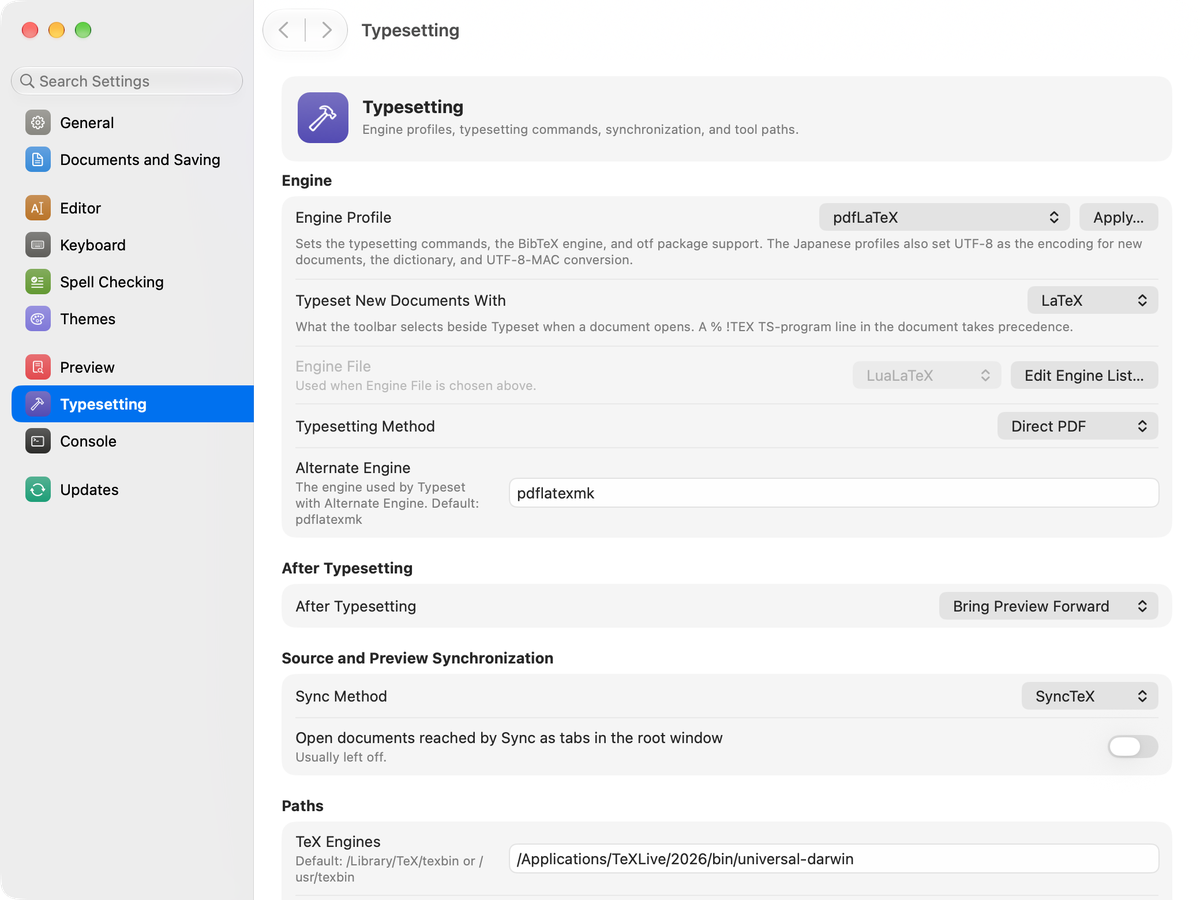
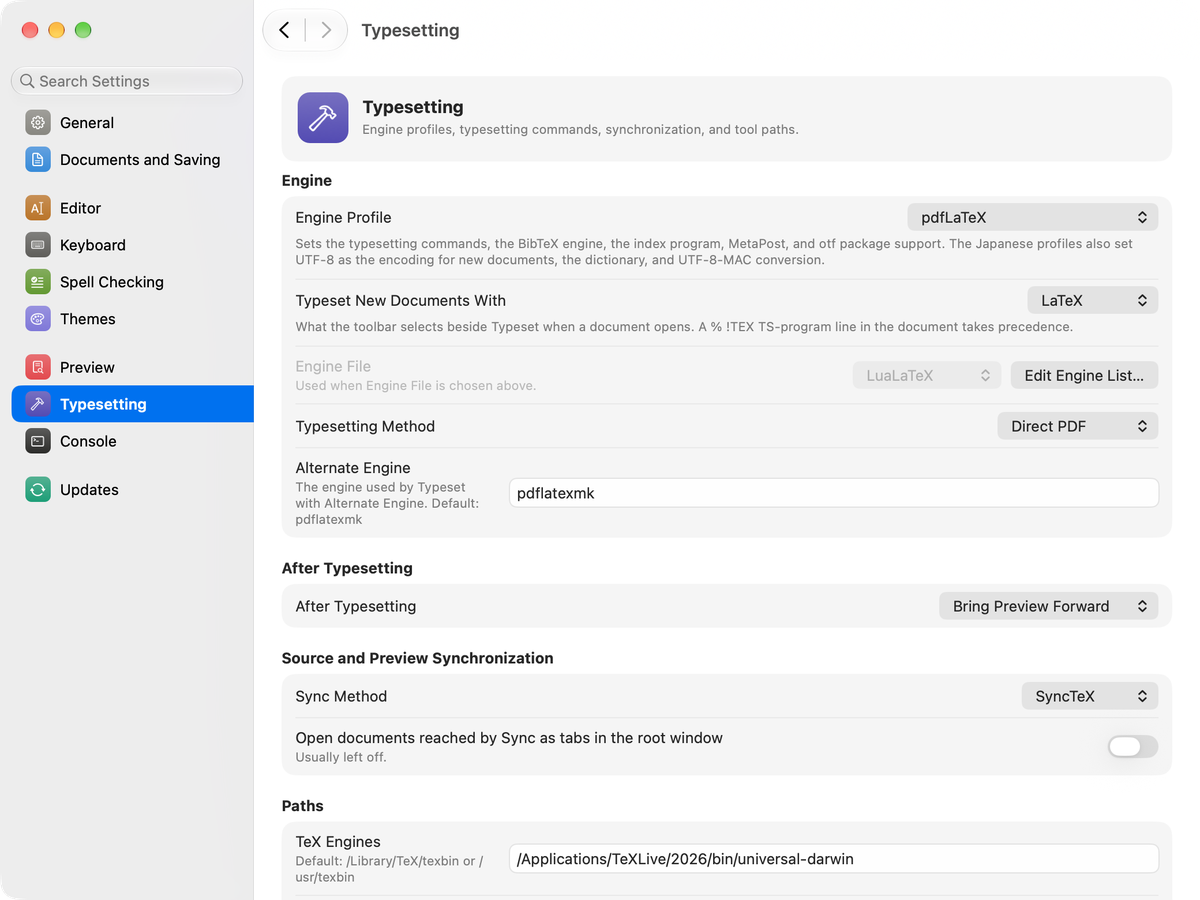
Show the engine profile menu and Related Tools
The Typesetting screenshots show the engine profile menu without the
Apply button, and a new screenshot shows the index program and
MetaPost in Related Tools for the item on MakeIndex and MetaPost. The
What's New section on profiles says that a profile is chosen from the
menu and confirmed, and that it also sets the index program and
MetaPost.

Changed region(s): [[0.2467, 0.2178, 0.9558, 0.3111]]

diff --git a/website/release-notes-ja.html b/website/release-notes-ja.html
@@ -105,6 +105,7 @@
 <li>設定画面を、コンパクトなサイドバーと「一般」「書類と保存」「エディタ」「キーボード」「スペルチェック」「テーマ」「プレビュー」「タイプセット」「コンソール」「アップデート」の10分類で構成しました。各分類は、見出しカード・名前付きの角丸グループ・スイッチ・右寄せの操作部品で構成し、ラベルの折り返しと従属項目の字下げに対応しました。Dockアイコンは「一般」に、エンジンのプロファイルは「タイプセット」にあります。「テーマ」には、テーマに保存される設定だけを置いています。<figure class="note-shot"><img src="assets/whats-new/ja/settings.png" width="600" height="450" alt="「フォント」で検索した結果を示す設定画面" loading="lazy"></figure></li>
 <li>「設定を検索」に、項目名と所属カテゴリを示す検索結果を表示します。選んだ項目へ移動して強調します。</li>
 <li>TeXとGhostscriptのインストール先を自動で探せるようにしました。初めて使うときと、「設定」→「タイプセット」の「パスの自動検出…」で、見つかった環境をバージョンとともに一覧表示します。最も新しいものが選ばれた状態になり、TeXとGhostscriptのそれぞれで別のものも選べます。確認後にTeXとGhostscriptのパスを更新します。<figure class="note-shot"><img src="assets/release-notes/ja/detect-paths.png" width="600" height="450" alt="見つかったTeXとGhostscriptを並べた「パスの自動検出」のシート" loading="lazy"></figure></li>
+<li>「タイプセット」メニューの「MakeIndex」と「MetaPost」は、「設定」→「タイプセット」→「周辺ツール」の「索引作成」と「MetaPost」のコマンドを実行します。デフォルトはこれまでどおりです。エンジンのプロファイルもこれらを設定し、日本語のプロファイルでは日本語用の索引作成とMetaPostのプログラム（pLaTeXは<code>mendex</code>と<code>pmpost</code>、upLaTeXは<code>upmendex</code>と<code>upmpost</code>、LuaLaTeX（日本語）は<code>upmendex</code>）になります。latexmkも同じ索引作成のプログラムを使います。<figure class="note-shot"><img src="assets/release-notes/ja/related-tools.png" width="600" height="450" alt="索引作成とMetaPostのある設定の「タイプセット」の「周辺ツール」" loading="lazy"></figure></li>
 <li>「設定 → キーボード」でメニューのショートカットを変更できます。「機能で検索」はコマンド名で、「キーで検索」は押したキーで絞り込みます。無効な割当ても含めてメニューとマクロの結果を表示し、「マクロエディタで表示」で該当マクロへ移れます。新しいショートカットはキーを押して登録します。ほかのコマンドで使われている場合は知らせ、個別またはすべてを元に戻せます。<code>KeyEquivalents.plist</code>で設定したショートカットは、引き続き既定値として使われます。同じキーと修飾キーの場合はメニューをマクロより優先し、カスタマイズで空いたキーはマクロで使えるようにしました。マクロのキーをメニューに割り当てる前に確認します。マクロエディタでは無効なキーと競合相手を表示し、保存時には新しく割り当てた・変更したキーの競合だけを確認します。同梱のNew arrayマクロのキーをControl-Shift-Command-Aに変更しました。マクロエディタでも、「ショートカット」欄をクリックしてキーを押すとマクロのショートカットを設定でき、⊗で解除できます。Commandを含まないControlの組み合わせやF1〜F20も使えるようになりました。以前の版で保存したショートカットはCommand付きのままです。<figure class="note-shot"><img src="assets/release-notes/ja/settings-keyboard.png" width="600" height="450" alt="キーバインドの一覧とメニューのショートカットのある設定の「キーボード」" loading="lazy"></figure></li>
 <li>キーバインドを、別ウインドウの「キーバインドエディタ」ではなく、「設定」→「キーボード」の一覧で編集するようにしました。行をその場で編集し、「＋」「−」で追加・削除し、ドラッグで並べ替えます。変更はすぐに保存されて開いている書類にも効き、「編集」→「取り消す」で戻せます。出力文字列の#SEL#・#INS#・#PASTE#・•・改行・タブは「選択中の文字列」などの部品で表示し、「挿入」メニューで入れられます。改行はOption＋Return、タブはOption＋Tabでも入り、「？」で一覧を表示します。出力文字列をコピーすると、これらは記号の文字として写ります。入力文字は1文字です（既存のファイルにある2文字以上の行はそのまま残します）。ファイルの形式は変わりません。</li>
 <li>キーボードにはキーバインドの一覧、Esc/Tabによるコマンド補完、BibDesk補完とコマンド補完ファイルの編集ボタンを集約し、編集ボタンはソースメニューから移しました。「キーバインド」と「コマンド補完」には、それぞれ機能を1行で説明しました。キーボードもほかの分類と同じくスクロールし、ウインドウを高くすると2つの一覧が広がります。補完にTabを使う場合、Tabは補完用に予約します。補完キーがTabの場合にTabを検索すると、該当の設定行を表示して強調します。</li>
@@ -150,7 +151,7 @@
 <ul>
 <li><strong>スペルチェック</strong>：LaTeXの構文を考慮するスペルチェックが初めから有効です。以前のように検査するには、「設定」→「スペルチェック」で「従来の方式」を選んでください。<figure class="note-shot"><img src="assets/release-notes/ja/settings-spelling.png" width="600" height="450" alt="LaTeXの構文を考慮するスペルチェックと従来の方式がある設定の「スペルチェック」" loading="lazy"></figure></li>
 <li><strong>検索</strong>：詳細検索パネルを、すべての利用者の検索の方式にしました。このバージョンを初めて起動したとき、今までの利用者も、Apple標準の検索パネルや検索バー、OgreKit検索パネル、既定のままのどの人も、一度だけ詳細検索パネルに切り替わります。元に戻すには、「設定」→「エディタ」の「検索パネル」でほかの方式を選びます。選んだ方式はその後も保たれます。OgreKit検索パネルを使っていた人は、パネルの「置換の書き方」がOgreKit式の <code>\1</code> になっています（自分で選んでいた人は、その選択のまま）。「置換の書き方」は「その他のオプション」にあります。OgreKit検索パネルは「レガシー」としました。OgreKitとの切り替えには、これまでどおり再起動が要ります。<figure class="note-shot"><img src="assets/release-notes/ja/settings-find-panel.png" width="600" height="450" alt="検索パネルに詳細検索パネルを選んだ設定の「エディタ」" loading="lazy"></figure></li>
-<li><strong>設定プロファイル</strong>：「設定プロファイル」を、「設定」→「タイプセット」の「エンジンのプロファイル」に置き換えました。プロファイルは、TeXエンジンごとのタイプセットのコマンド、BibTeXエンジン、otfパッケージ対応を設定します。日本語のプロファイルは、新しい書類のエンコーディングをUTF-8にし、辞書を「言語を自動判別」にし、UTF-8-MACの変換もオンにします。ほかの設定は変えません。「適用…」では「latexmkを使用」を選べます。latexmkは、BibTeXや索引、LaTeXの再実行を必要なだけ自動で行います。初めて起動したときは、TeXとGhostscriptのパスに続けて、エンジンのプロファイルを選べます。ほぼすべての設定を置き換えていた以前のプロファイルはなくなりました。それで変えた設定はそのまま残ります。<figure class="note-shot"><img src="assets/release-notes/ja/engine-profiles.png" width="600" height="450" alt="エンジンのプロファイルと「適用…」ボタンのある設定の「タイプセット」" loading="lazy"></figure></li>
+<li><strong>設定プロファイル</strong>：「設定プロファイル」を、「設定」→「タイプセット」の「エンジンのプロファイル」に置き換えました。プロファイルは、TeXエンジンごとのタイプセットのコマンド、BibTeXエンジン、索引作成とMetaPostのコマンド、otfパッケージ対応を設定します。日本語のプロファイルは、新しい書類のエンコーディングをUTF-8にし、辞書を「言語を自動判別」にし、UTF-8-MACの変換もオンにします。ほかの設定は変えません。メニューでプロファイルを選ぶと確認のシートが出て、「latexmkを使用」を選べます。latexmkは、BibTeXや索引、LaTeXの再実行を必要なだけ自動で行います。初めて起動したときは、TeXとGhostscriptのパスに続けて、エンジンのプロファイルを選べます。ほぼすべての設定を置き換えていた以前のプロファイルはなくなりました。それで変えた設定はそのまま残ります。<figure class="note-shot"><img src="assets/release-notes/ja/engine-profiles.png" width="600" height="450" alt="エンジンのプロファイルのメニューのある設定の「タイプセット」" loading="lazy"></figure></li>
 <li><strong>タイプセットの設定</strong>：「設定」→「タイプセット」の「デフォルトのコマンド」を「新しい書類のタイプセット」にしました。「利用するコマンド」は、<code>~/Library/TeXShop/Engines</code> にあるエンジンファイルから選ぶ「エンジンファイル」のメニューにしました。「エンジン一覧を編集…」でこのフォルダをFinderで開きます。最初に選ばれるエンジンファイルはXeLaTeXからLuaLaTeXになりました。すでにエンジンファイルでタイプセットしている場合はXeLaTeXのままです。LaTeXと対になるTeXは、「タイプセット」メニュー、ツールバー、設定で「plain TeX」と表記します。</li>
 <li><strong>プレビューの矢印キー</strong>：<a href="https://github.com/svb-bit">svb-bit</a>氏の提案により、単ページ・見開き表示で拡大したページが縦にスクロールできるとき、上下矢印キーはページ内を画面上の一定量ずつスクロールし、ページ端で止まるようにしました。前後のページへは移りません。ページを送るには、Command＋右／左矢印、Page Up／Page Down、スペースキーを使います（<a href="https://github.com/TeXShopProject/TeXShop/issues/9">#9</a>）。</li>
 <li><strong>macOSで設定したメニューのショートカット</strong>：一部のメニュー名の変更により、macOSの「システム設定」で登録したTeXShop用のショートカット（<code>NSUserKeyEquivalents</code>）が機能しなくなる場合があります。今後は、TeXShopの「設定」→「キーボード」にある「メニューのショートカット」で設定してください。旧<code>KeyEquivalents.plist</code>の「キーバインド」サブメニューの先頭項目への指定は、「ソース」の「キーバインド」へ引き継ぎます。旧「コマンド補完」サブメニューの「用語を追加」への指定は、名前でも番号でも「コマンド補完リストに追加」へ引き継ぎます。削除した編集項目や範囲外の番号への指定は無視します。コマンド補完ファイルの編集は「設定」→「キーボード」のボタンに、キーバインドの編集は同じ場所の一覧になり、旧メニュー名による割り当ては使えません。</li>

diff --git a/website/release-notes.html b/website/release-notes.html
@@ -85,6 +85,7 @@
 <li>Settings has a compact sidebar with ten categories: General, Documents and Saving, Editor, Keyboard, Spell Checking, Themes, Preview, Typesetting, Console, and Updates. Each category shows overview cards and named groups with switches, right-aligned controls, wrapping labels and indented dependent options. The Dock icon is in General, engine profiles are in Typesetting, and Themes contains only what themes store.<figure class="note-shot"><img src="assets/whats-new/en/settings.png" width="600" height="450" alt="The Settings window with the results of a search for font" loading="lazy"></figure></li>
 <li>Add Search Settings with an item-level result list showing each setting and its category. Selecting a result shows and highlights the setting.</li>
 <li>Find TeX and Ghostscript installations automatically. When TeXShop is first used, and with Detect Paths… under Settings → Typesetting, the installations found are listed with their versions. The newest is selected, and another can be chosen for TeX and for Ghostscript separately. The paths change only after confirmation.<figure class="note-shot"><img src="assets/release-notes/en/detect-paths.png" width="600" height="450" alt="The Detect Paths sheet listing the TeX and Ghostscript installations found" loading="lazy"></figure></li>
+<li>MakeIndex and MetaPost in the Typeset menu run the commands set in Settings → Typesetting → Related Tools. Their defaults are as before. The engine profiles set them as well, with the Japanese index and MetaPost programs for the Japanese profiles, and latexmk uses the same index program.<figure class="note-shot"><img src="assets/release-notes/en/related-tools.png" width="600" height="450" alt="The Related Tools group of the Typesetting category of Settings with the index program and MetaPost" loading="lazy"></figure></li>
 <li>Edit menu shortcuts in Settings → Keyboard. Search by Function finds command names; Search by Key records a key to show matching menu commands and macros, including inactive assignments. Show in Macro Editor selects the matching macro. A new shortcut is recorded by pressing it, shortcuts already in use are reported, and one or all shortcuts can be restored. Shortcuts set in <code>KeyEquivalents.plist</code> remain the defaults. For the same key and modifiers, menu commands take precedence over macros; macros can use keys freed by customization. Confirm before assigning a macro’s key to a menu command. The Macro Editor marks inactive shortcuts, identifies the conflicting command and key, and asks about new or changed conflicts when saving. The bundled New array macro now uses Control-Shift-Command-A. In the Macro Editor, a macro’s shortcut is set the same way, by clicking the Shortcut field and pressing it; ⊗ removes it. A macro’s shortcut may now use Control without Command, or one of F1–F20; shortcuts saved by earlier versions keep Command.<figure class="note-shot"><img src="assets/release-notes/en/settings-keyboard.png" width="600" height="450" alt="The Keyboard category of Settings with the key bindings list and menu shortcuts" loading="lazy"></figure></li>
 <li>Edit key bindings in a list in Settings → Keyboard, which replaces the Key Bindings Editor window. Items are edited in place, + and − add and remove them, and they can be dragged into another order. Each change is saved at once and used by open documents, and Edit → Undo can restore the previous list. In the output text, #SEL#, #INS#, #PASTE#, •, each line break and each tab appear as labels such as “Selected Text”; the Insert menu adds them, Option-Return and Option-Tab type a line break and a tab, and the ? button lists them. When the output text is copied, these symbols are copied as text. An input character is a single character; longer ones in an existing file are kept. The files keep their format.</li>
 <li>Keyboard contains the key bindings list, Esc/Tab command completion, BibDesk completion and the command completion file editor, which has moved from the Source menu. Key Bindings and Command Completion each have a one-line explanation of what they do. Keyboard scrolls like the other categories, and a taller window gives its two lists more height. When Tab triggers completion it is reserved for completion. Key bindings and command completion appear above shortcut search. Searching for Tab when it triggers completion reveals and highlights that setting.</li>
@@ -130,7 +131,7 @@
 <ul>
 <li><strong>Spell checking:</strong> LaTeX-aware spell checking is on by default. To check spelling as before, choose “Legacy method” under Settings → Spell Checking.<figure class="note-shot"><img src="assets/release-notes/en/settings-spelling.png" width="600" height="450" alt="The Spell Checking category of Settings with LaTeX-aware spell checking and the legacy method" loading="lazy"></figure></li>
 <li><strong>Find:</strong> the Advanced Find panel is the find method of every user. At the first launch of this version, every earlier user is switched to it once, from the Apple Find Panel or Find Bar, from the OgreKit Find Panel, or from the default. To go back, choose another method in Settings → Editor → Find Panel; that choice is kept. Users who came from the OgreKit Find Panel find the OgreKit replacement syntax <code>\1</code> chosen in the panel, unless they had chosen one; it is under Replacement syntax in More Options. The OgreKit Find Panel is now listed as legacy; switching to or from it still requires a restart.<figure class="note-shot"><img src="assets/release-notes/en/settings-find-panel.png" width="600" height="450" alt="The Editor category of Settings with the Advanced Find Panel chosen as the find interface" loading="lazy"></figure></li>
-<li><strong>Settings profiles:</strong> settings profiles are replaced by engine profiles in Settings → Typesetting. A profile sets the typesetting commands for one TeX engine, the BibTeX engine and otf package support; the Japanese profiles also set UTF-8 as the encoding for new documents, set the spelling dictionary to automatic language detection and turn on UTF-8-MAC conversion. Other settings stay as they are. Apply offers Use latexmk, which runs BibTeX, the index and LaTeX again as required. On first launch, TeXShop asks for the paths to TeX and Ghostscript and then for an engine profile. The earlier profiles, which replaced almost all settings, are removed; settings made with them stay as they are.<figure class="note-shot"><img src="assets/release-notes/en/engine-profiles.png" width="600" height="450" alt="The Typesetting category of Settings with the engine profile and its Apply button" loading="lazy"></figure></li>
+<li><strong>Settings profiles:</strong> settings profiles are replaced by engine profiles in Settings → Typesetting. A profile sets the typesetting commands for one TeX engine, the BibTeX engine, the index program, MetaPost and otf package support; the Japanese profiles also set UTF-8 as the encoding for new documents, set the spelling dictionary to automatic language detection and turn on UTF-8-MAC conversion. Other settings stay as they are. A profile chosen in the menu asks for confirmation and offers Use latexmk, which runs BibTeX, the index and LaTeX again as required. On first launch, TeXShop asks for the paths to TeX and Ghostscript and then for an engine profile. The earlier profiles, which replaced almost all settings, are removed; settings made with them stay as they are.<figure class="note-shot"><img src="assets/release-notes/en/engine-profiles.png" width="600" height="450" alt="The Typesetting category of Settings with the engine profile menu" loading="lazy"></figure></li>
 <li><strong>Typesetting settings:</strong> in Settings → Typesetting, Default Command is now Typeset New Documents With, and Command to use is now Engine File, a menu of the engine files in the Engines folder of TeXShop. Edit Engine List… opens that folder. The engine file chosen at first is LuaLaTeX instead of XeLaTeX; if you already typeset with the engine file, XeLaTeX stays. The Typeset menu, the toolbar and Settings say plain TeX where TeX is set against LaTeX.</li>
 <li><strong>Arrow keys in the preview:</strong> in single-page and two-page layouts, when an enlarged page can scroll vertically, the Up and Down Arrow keys scroll within the page at a consistent on-screen step and stop at its edge instead of turning the page. Use Command-Right/Left Arrow, Page Up/Page Down, or Space to change pages. Suggested by <a href="https://github.com/svb-bit">svb-bit</a> (<a href="https://github.com/TeXShopProject/TeXShop/issues/9">#9</a>).</li>
 <li><strong>Menu shortcuts set in macOS:</strong> some menu items have been renamed, so shortcuts assigned to TeXShop in macOS System Settings (<code>NSUserKeyEquivalents</code>) may no longer work. Use TeXShop’s built-in shortcut editor under Settings → Keyboard → Menu Shortcuts instead. Existing <code>KeyEquivalents.plist</code> entries for the former Key Bindings submenu’s first item still apply to the Key Bindings item in Source, and entries for Add Word in the former Command Completion submenu, by title or by position, apply to Add to Command Completion List. Entries for removed editing items or out-of-range numbers are ignored. The command completion file editor is now a button in Settings → Keyboard, and key bindings are a list there; they cannot be assigned by their former menu titles.</li>

diff --git a/website/whats-new-ja.html b/website/whats-new-ja.html
@@ -15,7 +15,7 @@
 <article class="feature" id="find-panel"><div class="feature-text"><h2>新しい検索パネル</h2><p>正規表現を使える、新しい検索と置換のパネルです。「すべて検索」はすべての一致を行とともに一覧にし、「すべてハイライト」は本文の中の一致を示します。検索欄と置換欄はソースのフォントの大きさの等幅フォントとソースのテーマで表示し、正規表現の部分ごとに色を分けて、誤りを示します。時間のかかる処理は裏で進み、キャンセルできます。</p></div><figure><img src="assets/whats-new/ja/advanced-find.png" width="600" height="494" alt="正規表現を入れた新しい検索パネルと、すべての一致の一覧、ソースで強調された一致" loading="lazy"></figure></article>
 <article class="feature" id="multiple-replace"><div class="feature-text"><h2>複数置換</h2><p>検索と置換の組を並べた一覧に名前を付けて保存し、上から順にまとめて適用します。正規表現も使え、選択範囲だけにも適用でき、取り消しは1回です。一覧はCotEditorの置換定義と同じJSONで保存し、「編集」→「検索」→「複数置換」から本文全体にすぐ適用できます。Unicode文字とajmacrosの命令を相互に変換する見本の組を同梱しました。</p></div><figure><img src="assets/release-notes/ja/multiple-replace.png" width="600" height="270" alt="検索と置換の組を4つ並べた複数置換の窓" loading="lazy"></figure></article>
 <article class="feature" id="detect-paths"><div class="feature-text"><h2>TeXとGhostscriptのパスを自動で設定</h2><p>初めて起動したとき、TeXShopはTeXとGhostscriptのインストール先を探し、バージョンとともに一覧にします。いちばん新しいものが選ばれ、TeXとGhostscriptのそれぞれでほかのものも選べます。あとからでも、「設定」→「タイプセット」の「パスの自動検出…」で探し直せます。</p></div><figure><img src="assets/release-notes/ja/detect-paths.png" width="600" height="450" alt="見つかったTeXとGhostscriptを並べた「パスの自動検出」のシート" loading="lazy"></figure></article>
-<article class="feature" id="engine-profiles"><div class="feature-text"><h2>プロファイルでエンジンを選ぶ</h2><p>「設定」→「タイプセット」でエンジンのプロファイルを選んで「適用…」を押すと、そのTeXエンジンのタイプセットのコマンド、BibTeXエンジン、otfパッケージ対応がまとめて設定されます。日本語のプロファイルは、新しい書類のエンコーディングをUTF-8にし、辞書を「言語を自動判別」にし、UTF-8-MACの変換もオンにします。初めて起動したときにも選べ、「latexmkを使用」も選べます。ほかの設定は変わりません。</p></div><figure><img src="assets/release-notes/ja/engine-profiles.png" width="600" height="450" alt="エンジンのプロファイルと「適用…」ボタンのある設定の「タイプセット」" loading="lazy"></figure></article>
+<article class="feature" id="engine-profiles"><div class="feature-text"><h2>プロファイルでエンジンを選ぶ</h2><p>「設定」→「タイプセット」のメニューでエンジンのプロファイルを選ぶと、確認のあと、そのTeXエンジンのタイプセットのコマンド、BibTeXエンジン、索引作成とMetaPostのコマンド、otfパッケージ対応がまとめて設定されます。日本語のプロファイルは、新しい書類のエンコーディングをUTF-8にし、辞書を「言語を自動判別」にし、UTF-8-MACの変換もオンにします。初めて起動したときにも選べ、確認のシートでは「latexmkを使用」も選べます。ほかの設定は変わりません。</p></div><figure><img src="assets/release-notes/ja/engine-profiles.png" width="600" height="450" alt="エンジンのプロファイルのメニューのある設定の「タイプセット」" loading="lazy"></figure></article>
 <article class="feature" id="link-previews"><div class="feature-text"><h2>固定できるリンクのポップアップ</h2><p>Optionキーで内部リンクのポップアップを固定できます。固定したポップアップは、動かす、大きさを変える、スクロールすることができます。ポップアップは本文の段の幅に合わせ、リンク先のページのラベルを示し、連続表示では次のページへ続けて表示します。</p></div><figure><img src="assets/whats-new/ja/link-preview.png" width="386" height="560" alt="2ページの定理1を示す固定したリンクのポップアップ。右下にページのラベル" loading="lazy"></figure></article>
 <article class="feature" id="split-preview"><div class="feature-text"><h2>分割したプレビューウインドウ</h2><p>境界線をドラッグしても、それぞれの部分の上端の内容は動きません。「ビューを切り替え」は二つの部分をそっくり入れ替え、作業中の部分は細い線で示します。「ウインドウを分割してリンク先を表示」は、リンク先をもう一方の部分に表示します。「内容の幅に合わせる」は、本文がウインドウの幅いっぱいになるように倍率を変えます。</p></div><figure><img src="assets/whats-new/ja/split-preview.png" width="386" height="560" alt="「ウインドウを分割してリンク先を表示」で分割したプレビューウインドウ。作業中の部分に線" loading="lazy"></figure></article>
 <article class="feature" id="look"><div class="feature-text"><h2>新しいアイコン</h2><p>macOS 26 Tahoe以降のアイコンのデザインに合わせた、新しいアイコンを搭載しました。ただし、起動中のDockのアイコンは、「設定」→「一般」の「起動中のDockアイコン」で、懐かしのあのデザインに戻せます。2000年から2026年までの4つのデザインから選べ、TeXShopを終了すると新しいアイコンに戻ります。</p></div><figure><img src="assets/whats-new/ja/dock-icons.png" width="600" height="411" alt="設定の「一般」の「起動中のDockアイコン」。2000年から使われてきた4つのデザインと、新しいアイコン" loading="lazy"></figure></article>

diff --git a/website/whats-new.html b/website/whats-new.html
@@ -15,7 +15,7 @@
 <article class="feature" id="find-panel"><div class="feature-text"><h2>New Find panel</h2><p>A new find and replace panel with regular expressions. Find All lists every match with its line, and Highlight All marks the matches in the text. The find and replace fields use a monospaced font at the size of the source font and the theme of the source, color the parts of a regular expression and mark errors. Long operations run in the background and can be canceled.</p></div><figure><img src="assets/whats-new/en/advanced-find.png" width="600" height="494" alt="The new Find panel with a regular expression and the list of all matches, and the matches highlighted in the source" loading="lazy"></figure></article>
 <article class="feature" id="multiple-replace"><div class="feature-text"><h2>Multiple Replace</h2><p>Save a named list of find and replace pairs and apply them in order from the top, with regular expressions, in the whole text or only in the selection, and with a single undo. The lists are saved as JSON in the format of CotEditor’s replacement definitions, and Edit → Find → Multiple Replace applies one to the whole text at once. Two sample sets convert between Unicode characters and ajmacros commands.</p></div><figure><img src="assets/release-notes/en/multiple-replace.png" width="600" height="270" alt="The Multiple Replace window with a set of four find and replace pairs" loading="lazy"></figure></article>
 <article class="feature" id="detect-paths"><div class="feature-text"><h2>TeX and Ghostscript paths set automatically</h2><p>When TeXShop is first used, it looks for TeX and Ghostscript installations and lists them with their versions. The newest is selected, and another can be chosen for TeX and for Ghostscript separately. Detect Paths… in Settings → Typesetting looks again at any time.</p></div><figure><img src="assets/release-notes/en/detect-paths.png" width="600" height="450" alt="The Detect Paths sheet listing the TeX and Ghostscript installations found" loading="lazy"></figure></article>
-<article class="feature" id="engine-profiles"><div class="feature-text"><h2>Choose the engine with a profile</h2><p>Choose an engine profile in Settings → Typesetting and click Apply…: it sets the typesetting commands for that TeX engine, the BibTeX engine and otf package support at once. The Japanese profiles also set UTF-8 as the encoding for new documents, set the spelling dictionary to automatic language detection and turn on UTF-8-MAC conversion. A profile can also be chosen at first launch, and Apply offers Use latexmk. Other settings stay as they are.</p></div><figure><img src="assets/release-notes/en/engine-profiles.png" width="600" height="450" alt="The Typesetting category of Settings with the engine profile and its Apply button" loading="lazy"></figure></article>
+<article class="feature" id="engine-profiles"><div class="feature-text"><h2>Choose the engine with a profile</h2><p>Choose an engine profile from the menu in Settings → Typesetting and confirm: it sets the typesetting commands for that TeX engine, the BibTeX engine, the index program, MetaPost and otf package support at once. The Japanese profiles also set UTF-8 as the encoding for new documents, set the spelling dictionary to automatic language detection and turn on UTF-8-MAC conversion. A profile can also be chosen at first launch, and the confirmation offers Use latexmk. Other settings stay as they are.</p></div><figure><img src="assets/release-notes/en/engine-profiles.png" width="600" height="450" alt="The Typesetting category of Settings with the engine profile menu" loading="lazy"></figure></article>
 <article class="feature" id="link-previews"><div class="feature-text"><h2>Pinned link previews</h2><p>Option pins the preview of an internal link. A pinned preview can be moved, resized and scrolled. Previews are sized to the text column, show the label of the linked page, and in the continuous display formats continue on the next page.</p></div><figure><img src="assets/whats-new/en/link-preview.png" width="386" height="560" alt="A pinned link preview showing Theorem 1 from page 2, with the page label in its lower right corner" loading="lazy"></figure></article>
 <article class="feature" id="split-preview"><div class="feature-text"><h2>Split Preview window</h2><p>Dragging the divider keeps the text at the top of each part in place. Switch Views exchanges the two parts completely, and a thin line marks the active part. Split Window with Link shows a link’s target in the other part. Zoom to Content Width sets the magnification so that the text fills the width of the window.</p></div><figure><img src="assets/whats-new/en/split-preview.png" width="386" height="560" alt="A Preview window split by Split Window with Link, with a line along the active part" loading="lazy"></figure></article>
 <article class="feature" id="look"><div class="feature-text"><h2>New app icon</h2><p>A new app icon made for the design of macOS 26 Tahoe and later. While TeXShop is running, though, its Dock icon can go back to one of the familiar designs of the past: choose it under Dock Icon While Running in Settings → General, from four designs used since 2000. When TeXShop quits, the Dock shows the new icon again.</p></div><figure><img src="assets/whats-new/en/dock-icons.png" width="600" height="450" alt="Dock Icon While Running in the General category of Settings: four designs used since 2000 and the new icon" loading="lazy"></figure></article>
